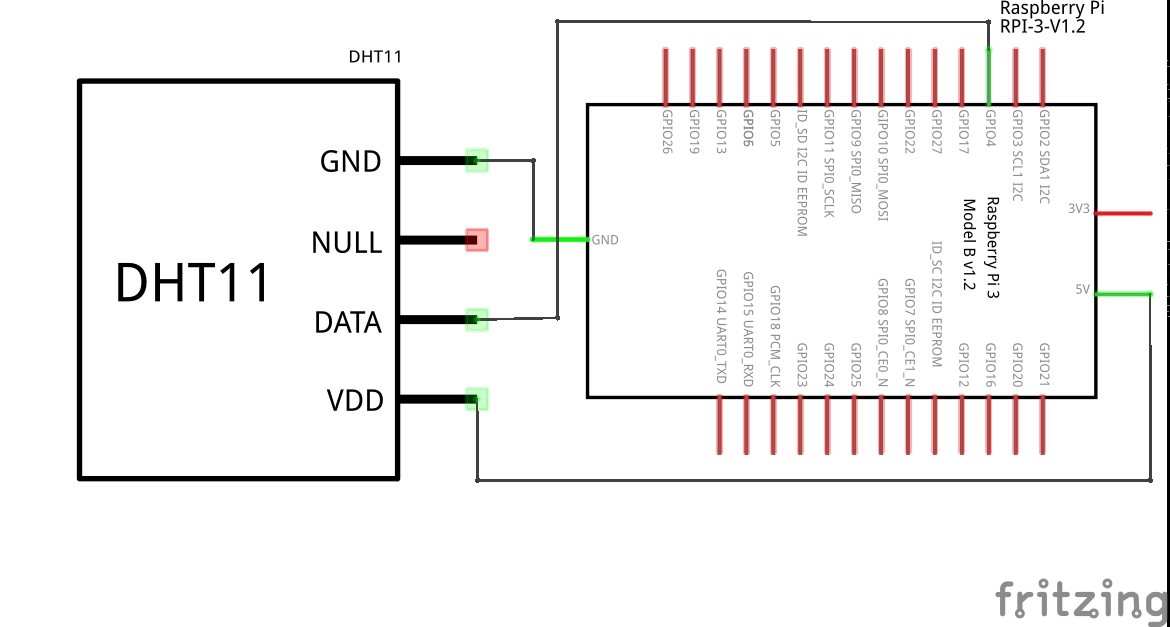
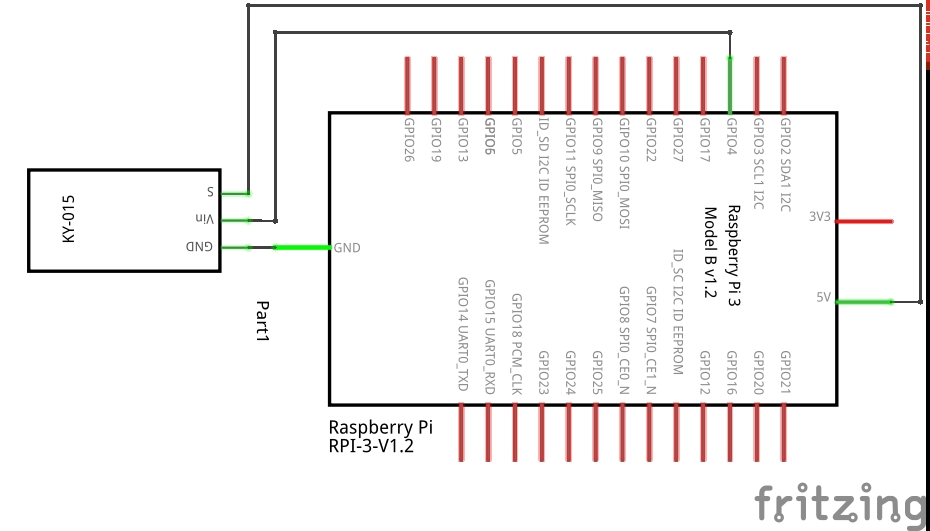
++++

Changed region(s): [[0.0312, 0.0, 1.0, 0.8738], [0.8108, 0.904, 0.9978, 1.0]]

diff --git a/README.md b/README.md
@@ -23,15 +23,17 @@ _BIGEARD Robin - DAVID Marceau_
 - Raspberry Pi 3 Modèle B (OS Raspbian)  
   ![raspberry](/img/raspberry.jpg "Raspberry Pi 3 Modèle B")
 
+- 3 Cables
+
 ## Script Python
 
 Fichier : [dht11.py](https://github.com/marceaudavid/iot-sensor/blob/master/dht11.py)
 
 ### Câblage
 Pour le Câblage il faudra mettre le brachement comme présenter sur le schéma.
+![alt text](/img/schema.jpg "schema")
+![alt text](/img/schem.jpg "schem")
 
-  ![alt text](/img/schema.jpg "schema")
-  ![alt text](/img/schem.jpg "schem")
 ### Code Python
 
 La premiere étape l'installation de Python 3, Pip 3 et Adafruit_DHT.
@@ -49,7 +51,7 @@ sudo pip install Adafruit_DHT
 sudo python3 dht11.py install
 ```
 
-Code Python
+Code Python pour le DHT11
 ```python
 #!/usr/bin/python
 import sys
@@ -63,10 +65,7 @@ while True:
     sleep(59)
 ```
 
-
 ## Database Mongodb
-
-## BDD MongoDB
 
 La base de données utilisé la DaaS (Database as a Service) de MongoDB: [MongoDB Atlas](https://www.mongodb.com/cloud/atlas).
 
